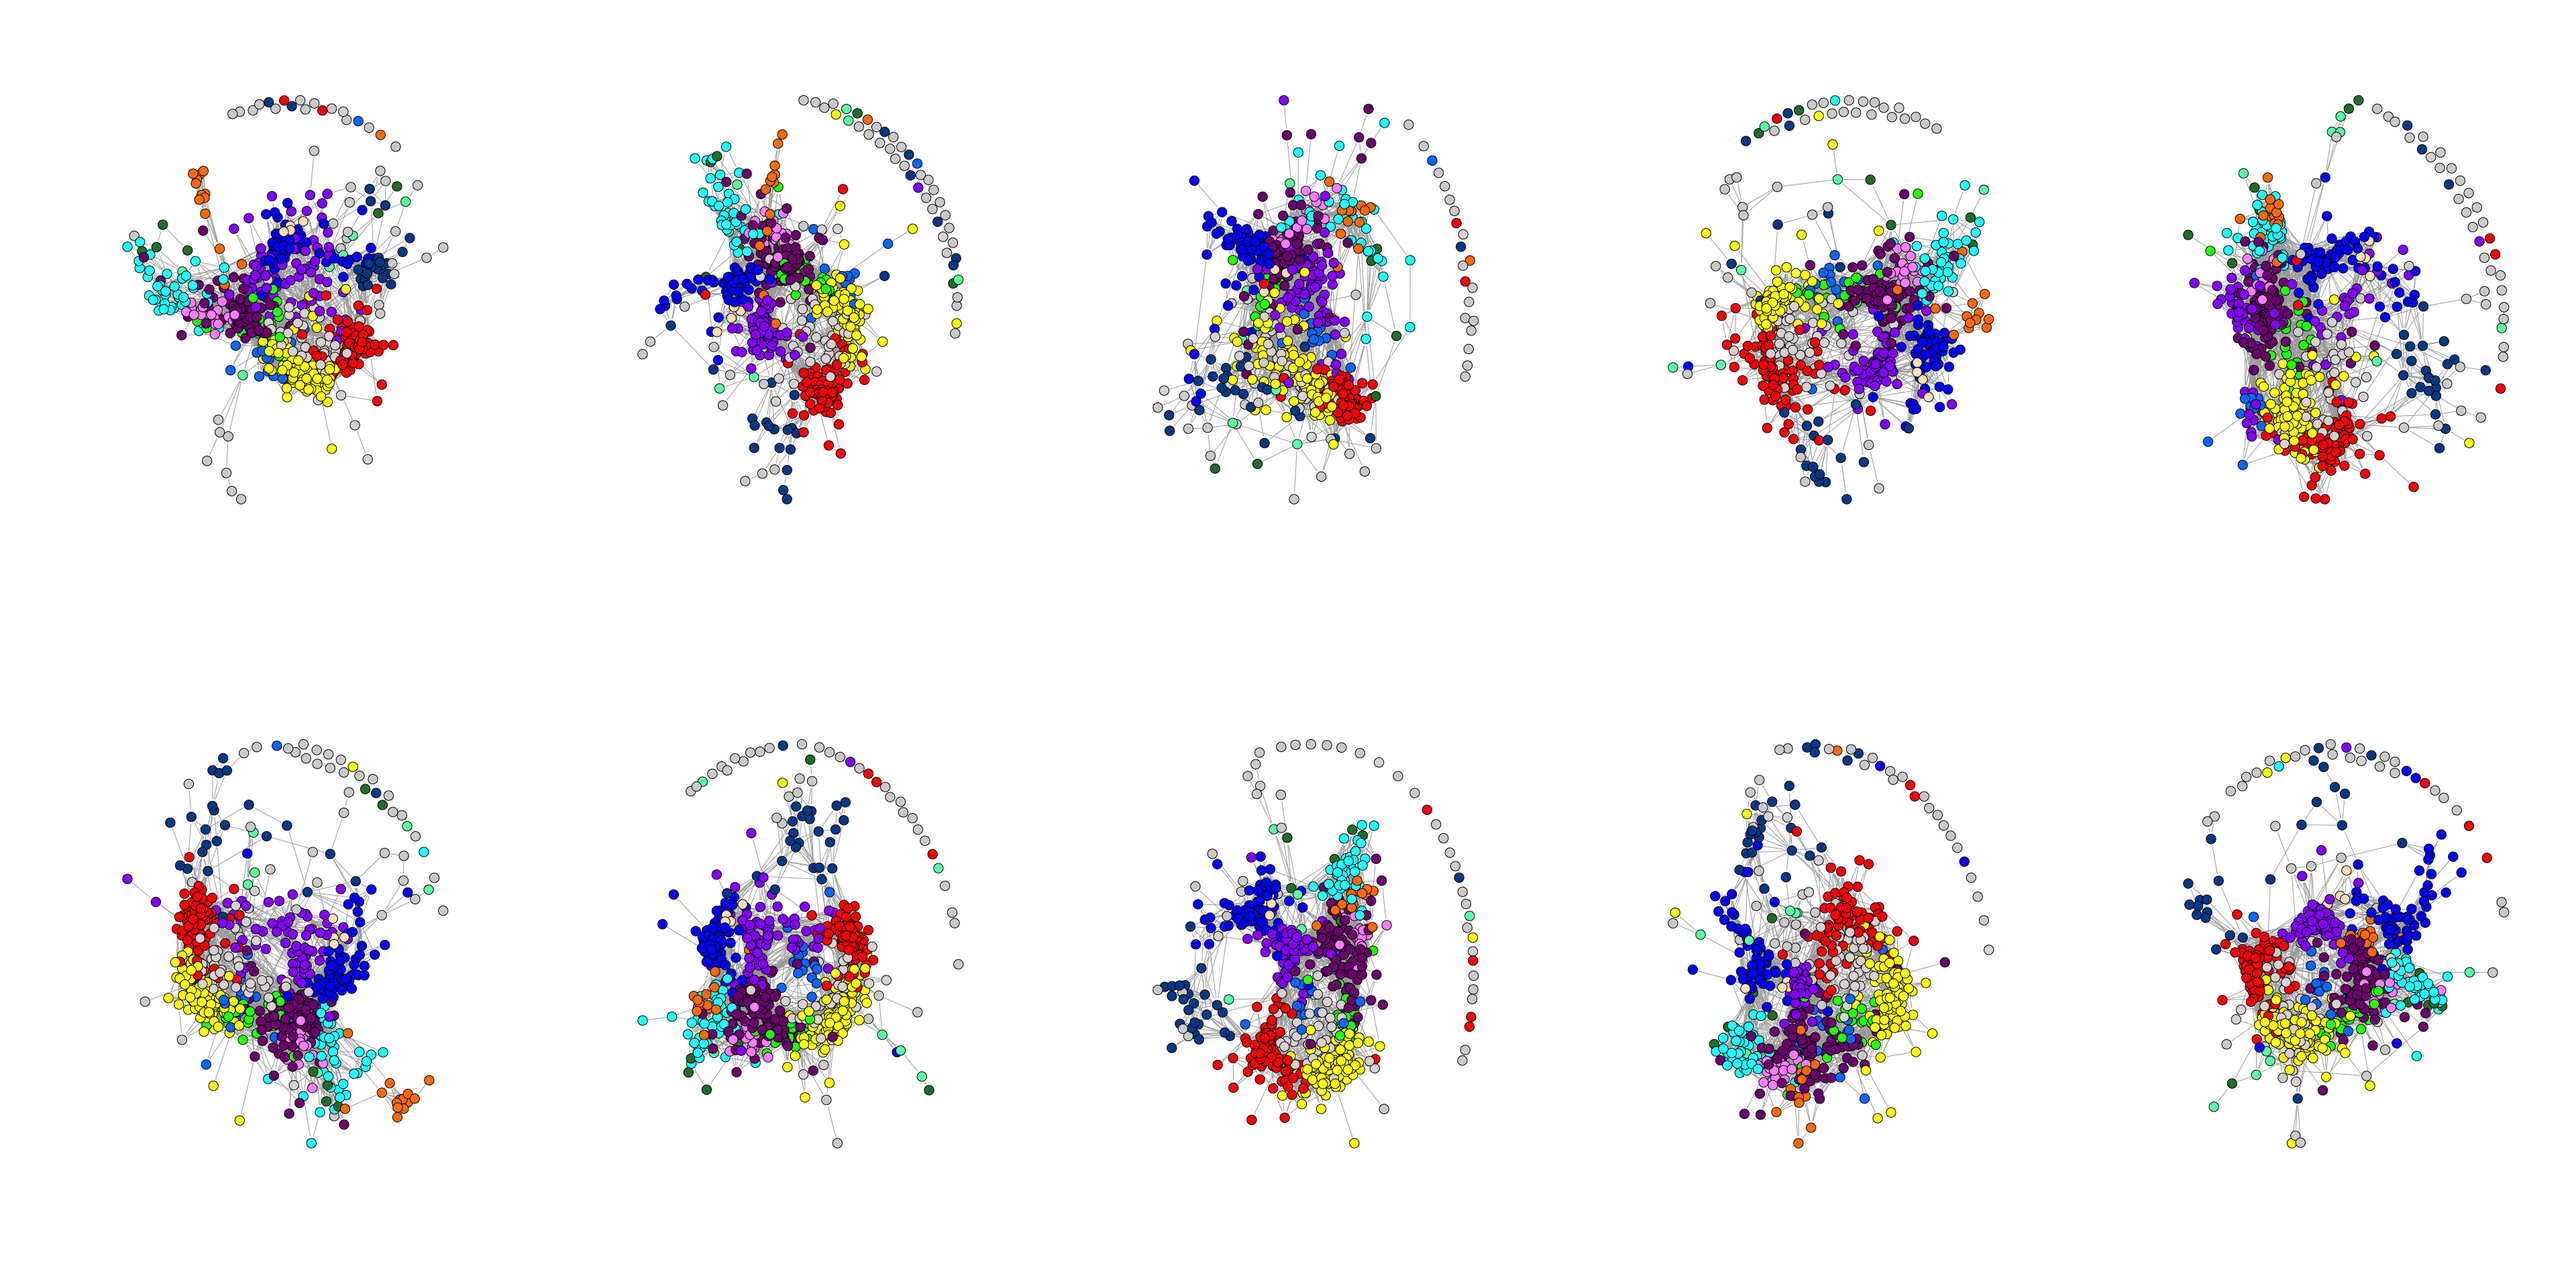
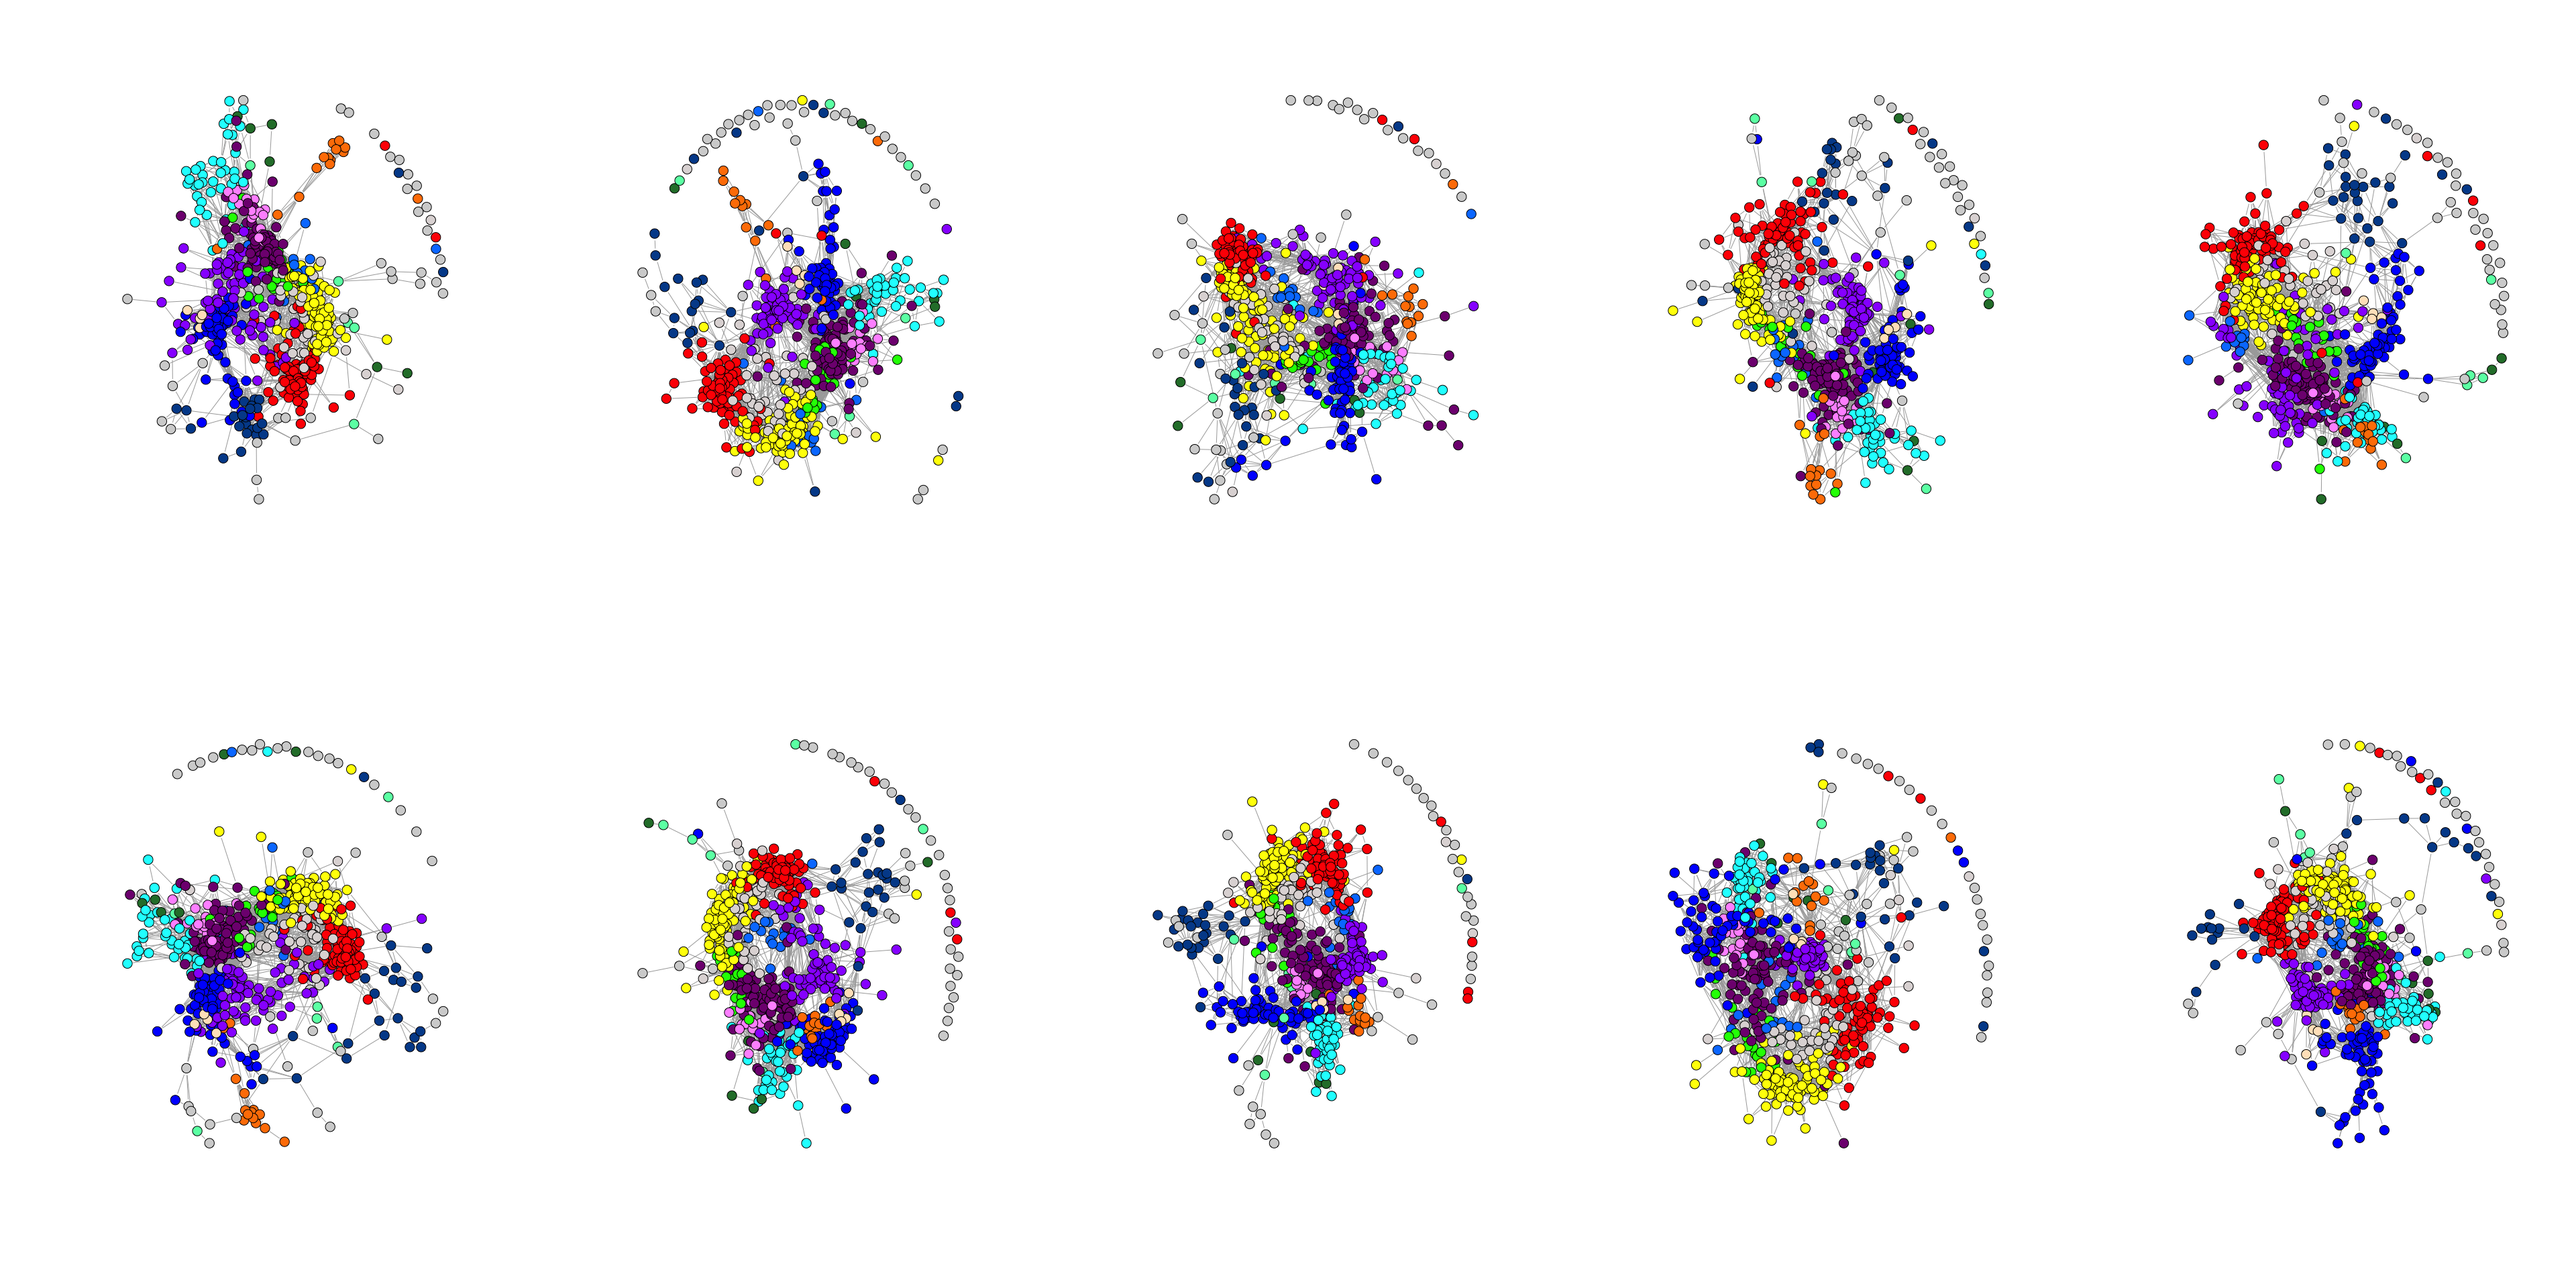
Fix foot/face label and add 2% density spring embedded

diff --git a/des_MSC/DisplayMSC_SpringEmbedded_2td.md b/des_MSC/DisplayMSC_SpringEmbedded_2td.md
@@ -1,4 +1,4 @@
-MSC All Subjects RSFC Spring-embedded Graphs - 4% Edge Density
+MSC All Subjects RSFC Spring-embedded Graphs - 2% Edge Density
 ================
 
 <table style="width:72%;">
@@ -170,7 +170,7 @@ for(subj.count in 1:length(parcel.list)){
     z_pos[z_pos<0] <- 0
     ## Threshold matrix to 4%
     z4 <- z_pos
-    z4[z < quantile(z, 0.96)] <- 0
+    z4[z < quantile(z, 0.98)] <- 0
     net <- graph.adjacency(adjmatrix = z4, mode = "undirected", diag = F, weighted = T)
     
     V(net)$id <- parcel.list[[subj.name[subj.count]]]$vox.des$NodeID
@@ -188,40 +188,40 @@ for(subj.count in 1:length(parcel.list)){
 
     ## [1] "sub01"
 
-![](DisplayMSC_SpringEmbedded_files/figure-markdown_github/plot_all_sub_session_spring-1.png)
+![](DisplayMSC_SpringEmbedded_2td_files/figure-markdown_github/plot_all_sub_session_spring-1.png)
 
     ## [1] "sub02"
 
-![](DisplayMSC_SpringEmbedded_files/figure-markdown_github/plot_all_sub_session_spring-2.png)
+![](DisplayMSC_SpringEmbedded_2td_files/figure-markdown_github/plot_all_sub_session_spring-2.png)
 
     ## [1] "sub03"
 
-![](DisplayMSC_SpringEmbedded_files/figure-markdown_github/plot_all_sub_session_spring-3.png)
+![](DisplayMSC_SpringEmbedded_2td_files/figure-markdown_github/plot_all_sub_session_spring-3.png)
 
     ## [1] "sub04"
 
-![](DisplayMSC_SpringEmbedded_files/figure-markdown_github/plot_all_sub_session_spring-4.png)
+![](DisplayMSC_SpringEmbedded_2td_files/figure-markdown_github/plot_all_sub_session_spring-4.png)
 
     ## [1] "sub05"
 
-![](DisplayMSC_SpringEmbedded_files/figure-markdown_github/plot_all_sub_session_spring-5.png)
+![](DisplayMSC_SpringEmbedded_2td_files/figure-markdown_github/plot_all_sub_session_spring-5.png)
 
     ## [1] "sub06"
 
-![](DisplayMSC_SpringEmbedded_files/figure-markdown_github/plot_all_sub_session_spring-6.png)
+![](DisplayMSC_SpringEmbedded_2td_files/figure-markdown_github/plot_all_sub_session_spring-6.png)
 
     ## [1] "sub07"
 
-![](DisplayMSC_SpringEmbedded_files/figure-markdown_github/plot_all_sub_session_spring-7.png)
+![](DisplayMSC_SpringEmbedded_2td_files/figure-markdown_github/plot_all_sub_session_spring-7.png)
 
     ## [1] "sub08"
 
-![](DisplayMSC_SpringEmbedded_files/figure-markdown_github/plot_all_sub_session_spring-8.png)
+![](DisplayMSC_SpringEmbedded_2td_files/figure-markdown_github/plot_all_sub_session_spring-8.png)
 
     ## [1] "sub09"
 
-![](DisplayMSC_SpringEmbedded_files/figure-markdown_github/plot_all_sub_session_spring-9.png)
+![](DisplayMSC_SpringEmbedded_2td_files/figure-markdown_github/plot_all_sub_session_spring-9.png)
 
     ## [1] "sub010"
 
-![](DisplayMSC_SpringEmbedded_files/figure-markdown_github/plot_all_sub_session_spring-10.png)
+![](DisplayMSC_SpringEmbedded_2td_files/figure-markdown_github/plot_all_sub_session_spring-10.png)
